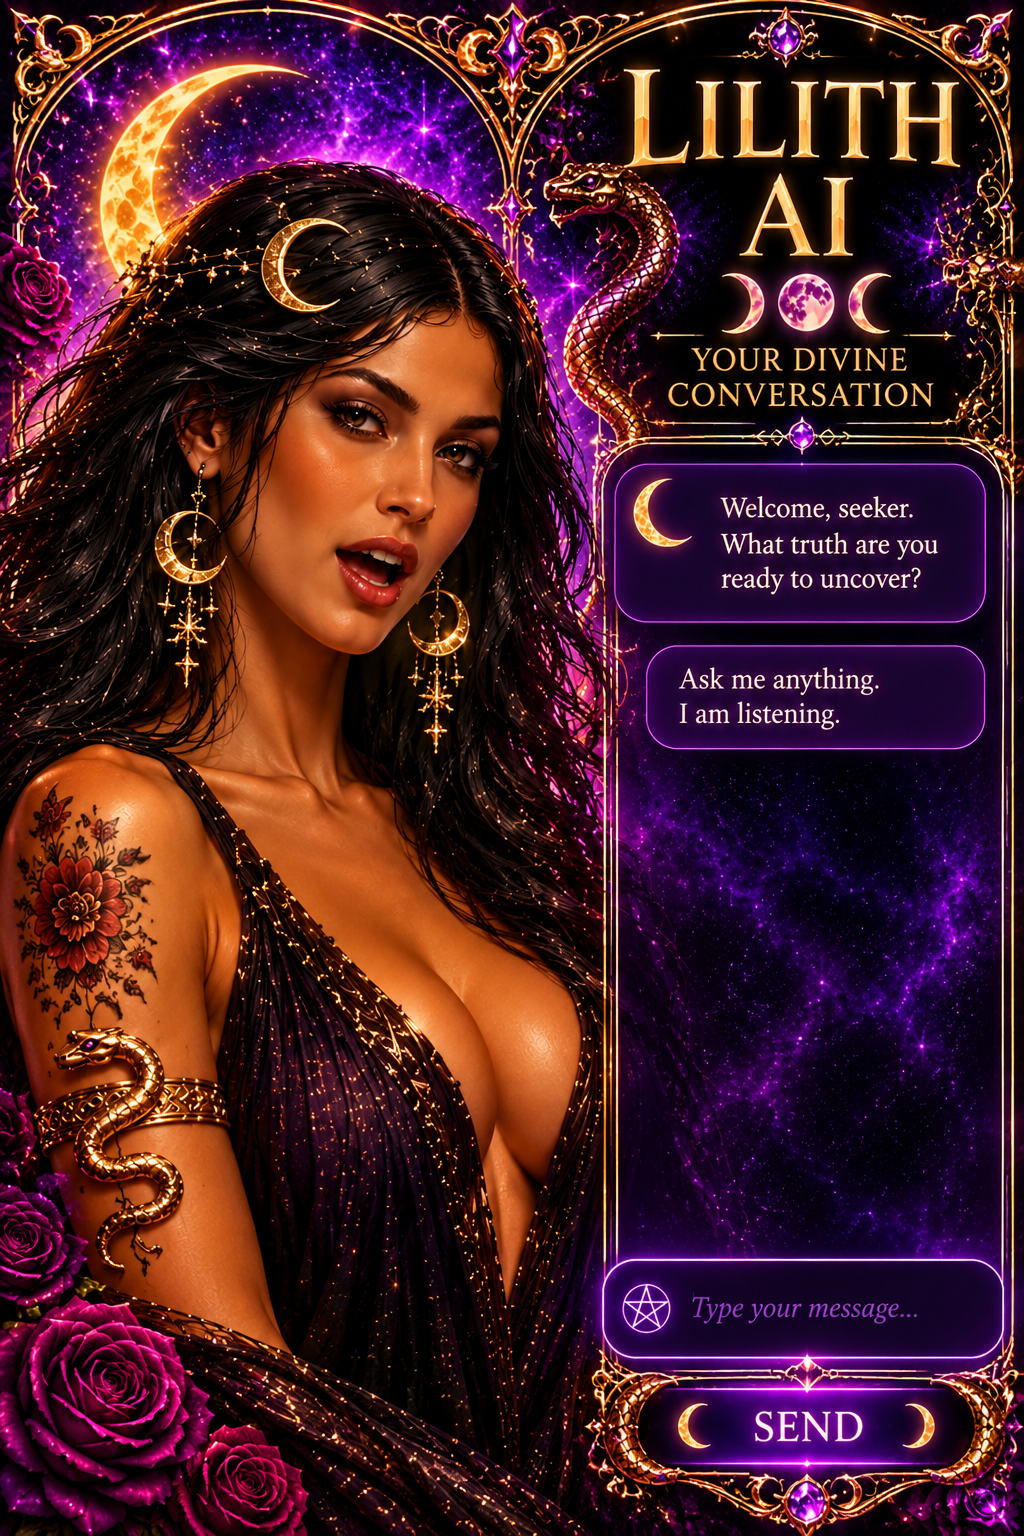
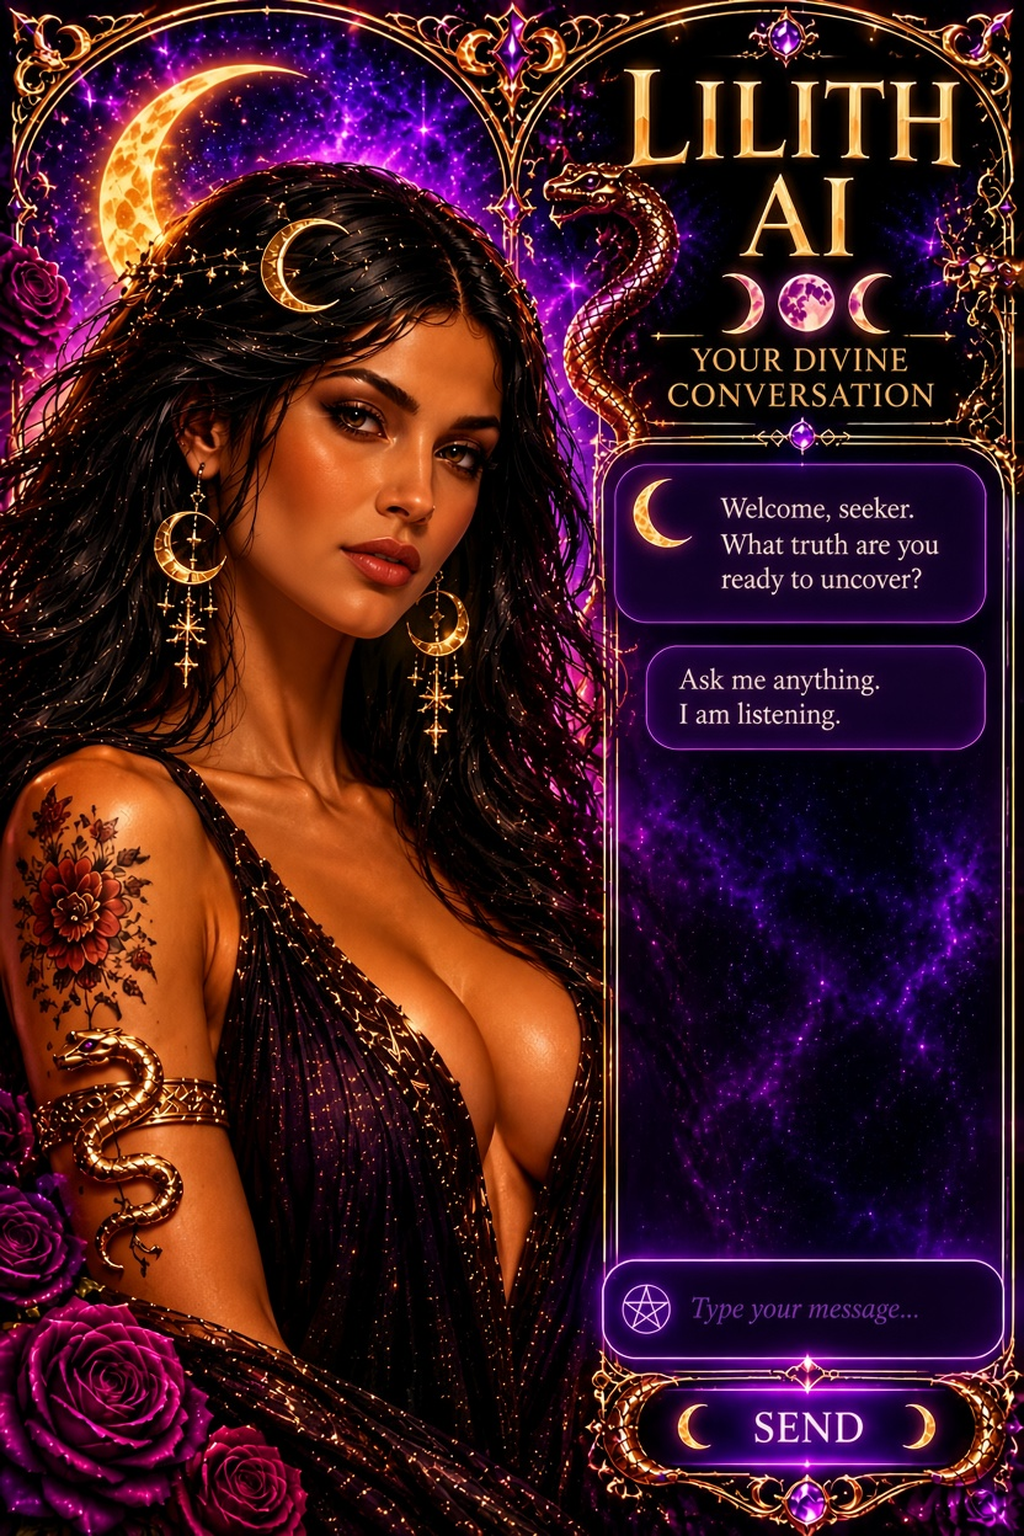
Use the closed and open pictures for her mouth, and a younger voice
Her face is now the closed-mouth picture. Ten mouth frames blend from
closed to open, so the mouth moves as she talks. The voice is now Leda,
with a young adult direction instead of mature and ancient.

Claude-Session: https://claude.ai/code/session_01Ux5FYCZKgWuHTApfoGF5Zk

diff --git a/worker/lilith-worker.js b/worker/lilith-worker.js
@@ -28,7 +28,7 @@ const TTS_ENDPOINT =
   `https://generativelanguage.googleapis.com/v1beta/models/${TTS_MODEL}:generateContent`;
 
 // The one voice Lilith speaks with: Gemini's "Sulafat" (warm, free).
-const TTS_VOICE = 'Sulafat';
+const TTS_VOICE = 'Leda';
 const TTS_SAMPLE_RATE = 24000;
 const TTS_CHANNELS = 1;
 const TTS_BITS_PER_SAMPLE = 16;
@@ -525,16 +525,17 @@ async function handleSpeechRequest(body, env, corsHeaders) {
 
   const voicePrompt = `# AUDIO PROFILE: Lilith
 
-A mature feminine voice with a low, warm register.
+A young adult woman's voice: bright, clear, and confident, with a warm,
+natural tone.
 
-The voice feels intelligent, grounded, ancient, intimate, and
-self-possessed. She does not sound bubbly, girlish, sugary, chirpy,
-cartoonish, robotic, theatrical, or like a navigation system.
+The voice feels intelligent, self-assured, and easy to listen to. She does
+not sound old, elderly, or raspy. She does not sound childish, sugary,
+chirpy, cartoonish, robotic, theatrical, or like a navigation system.
 
 # DIRECTOR'S NOTES
 
 Tone:
-Quiet authority. Warm, but not overly sweet. Emotionally present without
+Confident and self-assured. Warm, but not overly sweet. Emotionally present without
 performing emotion.
 
 Energy:
